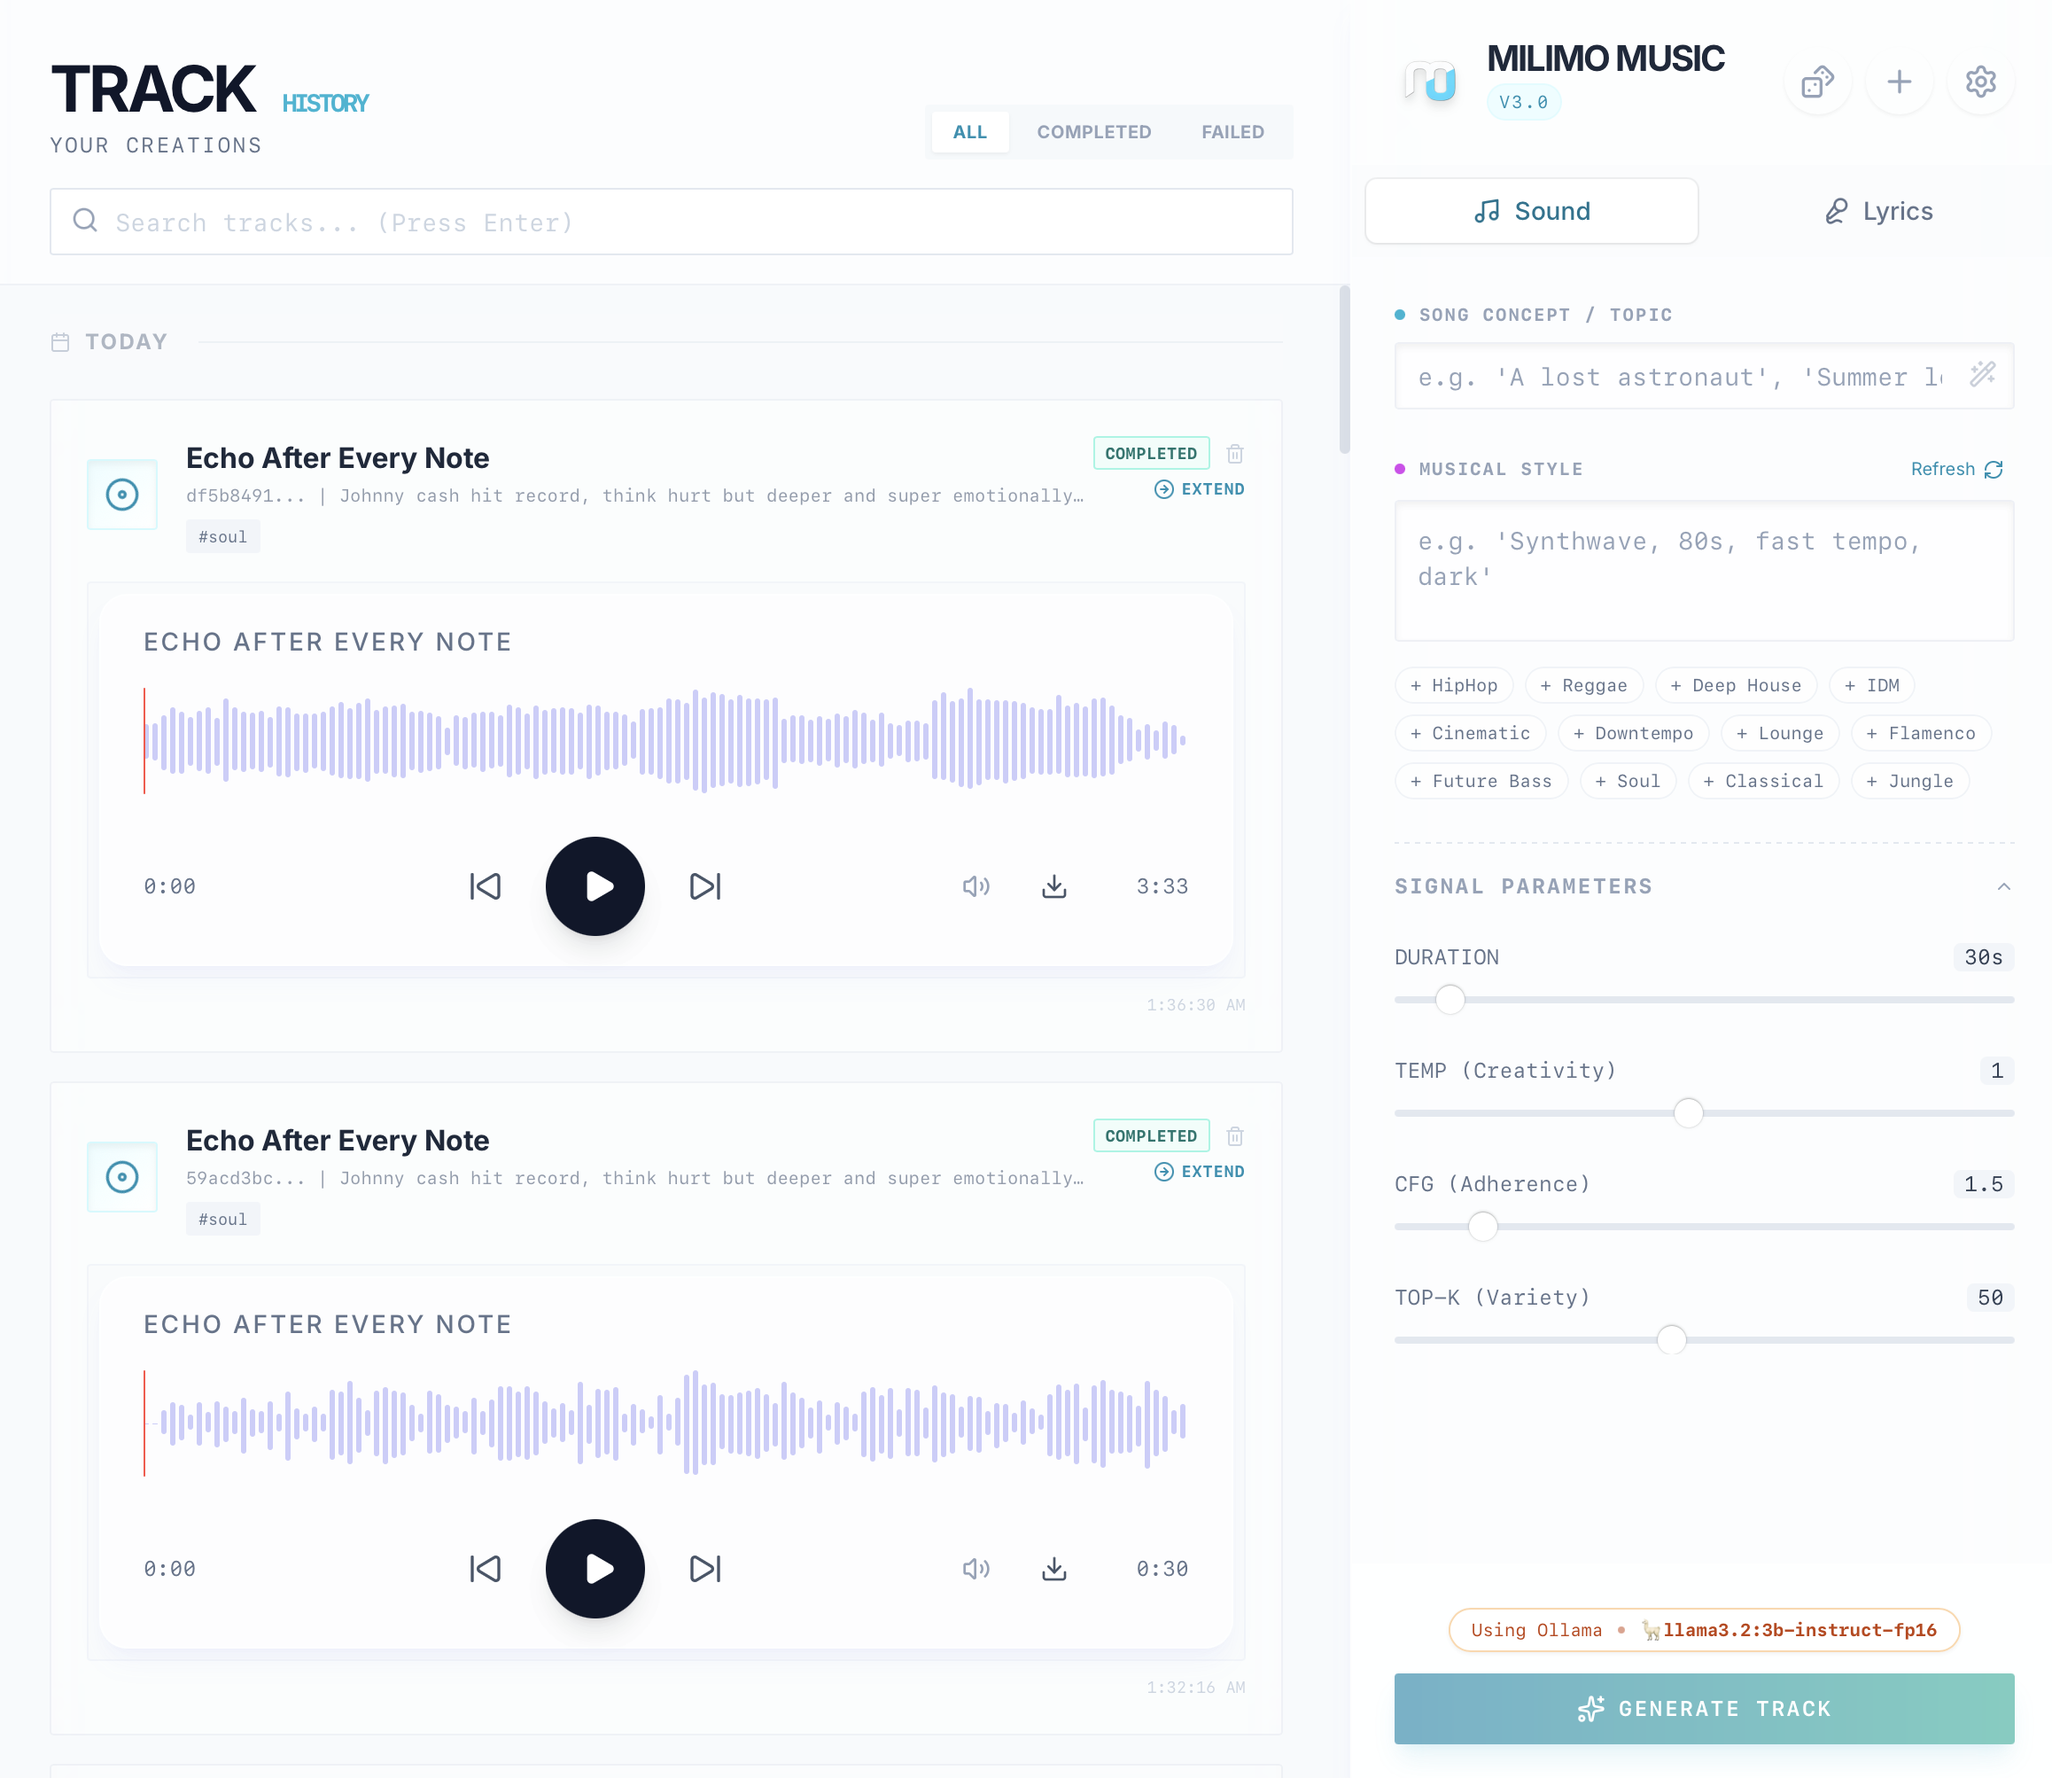
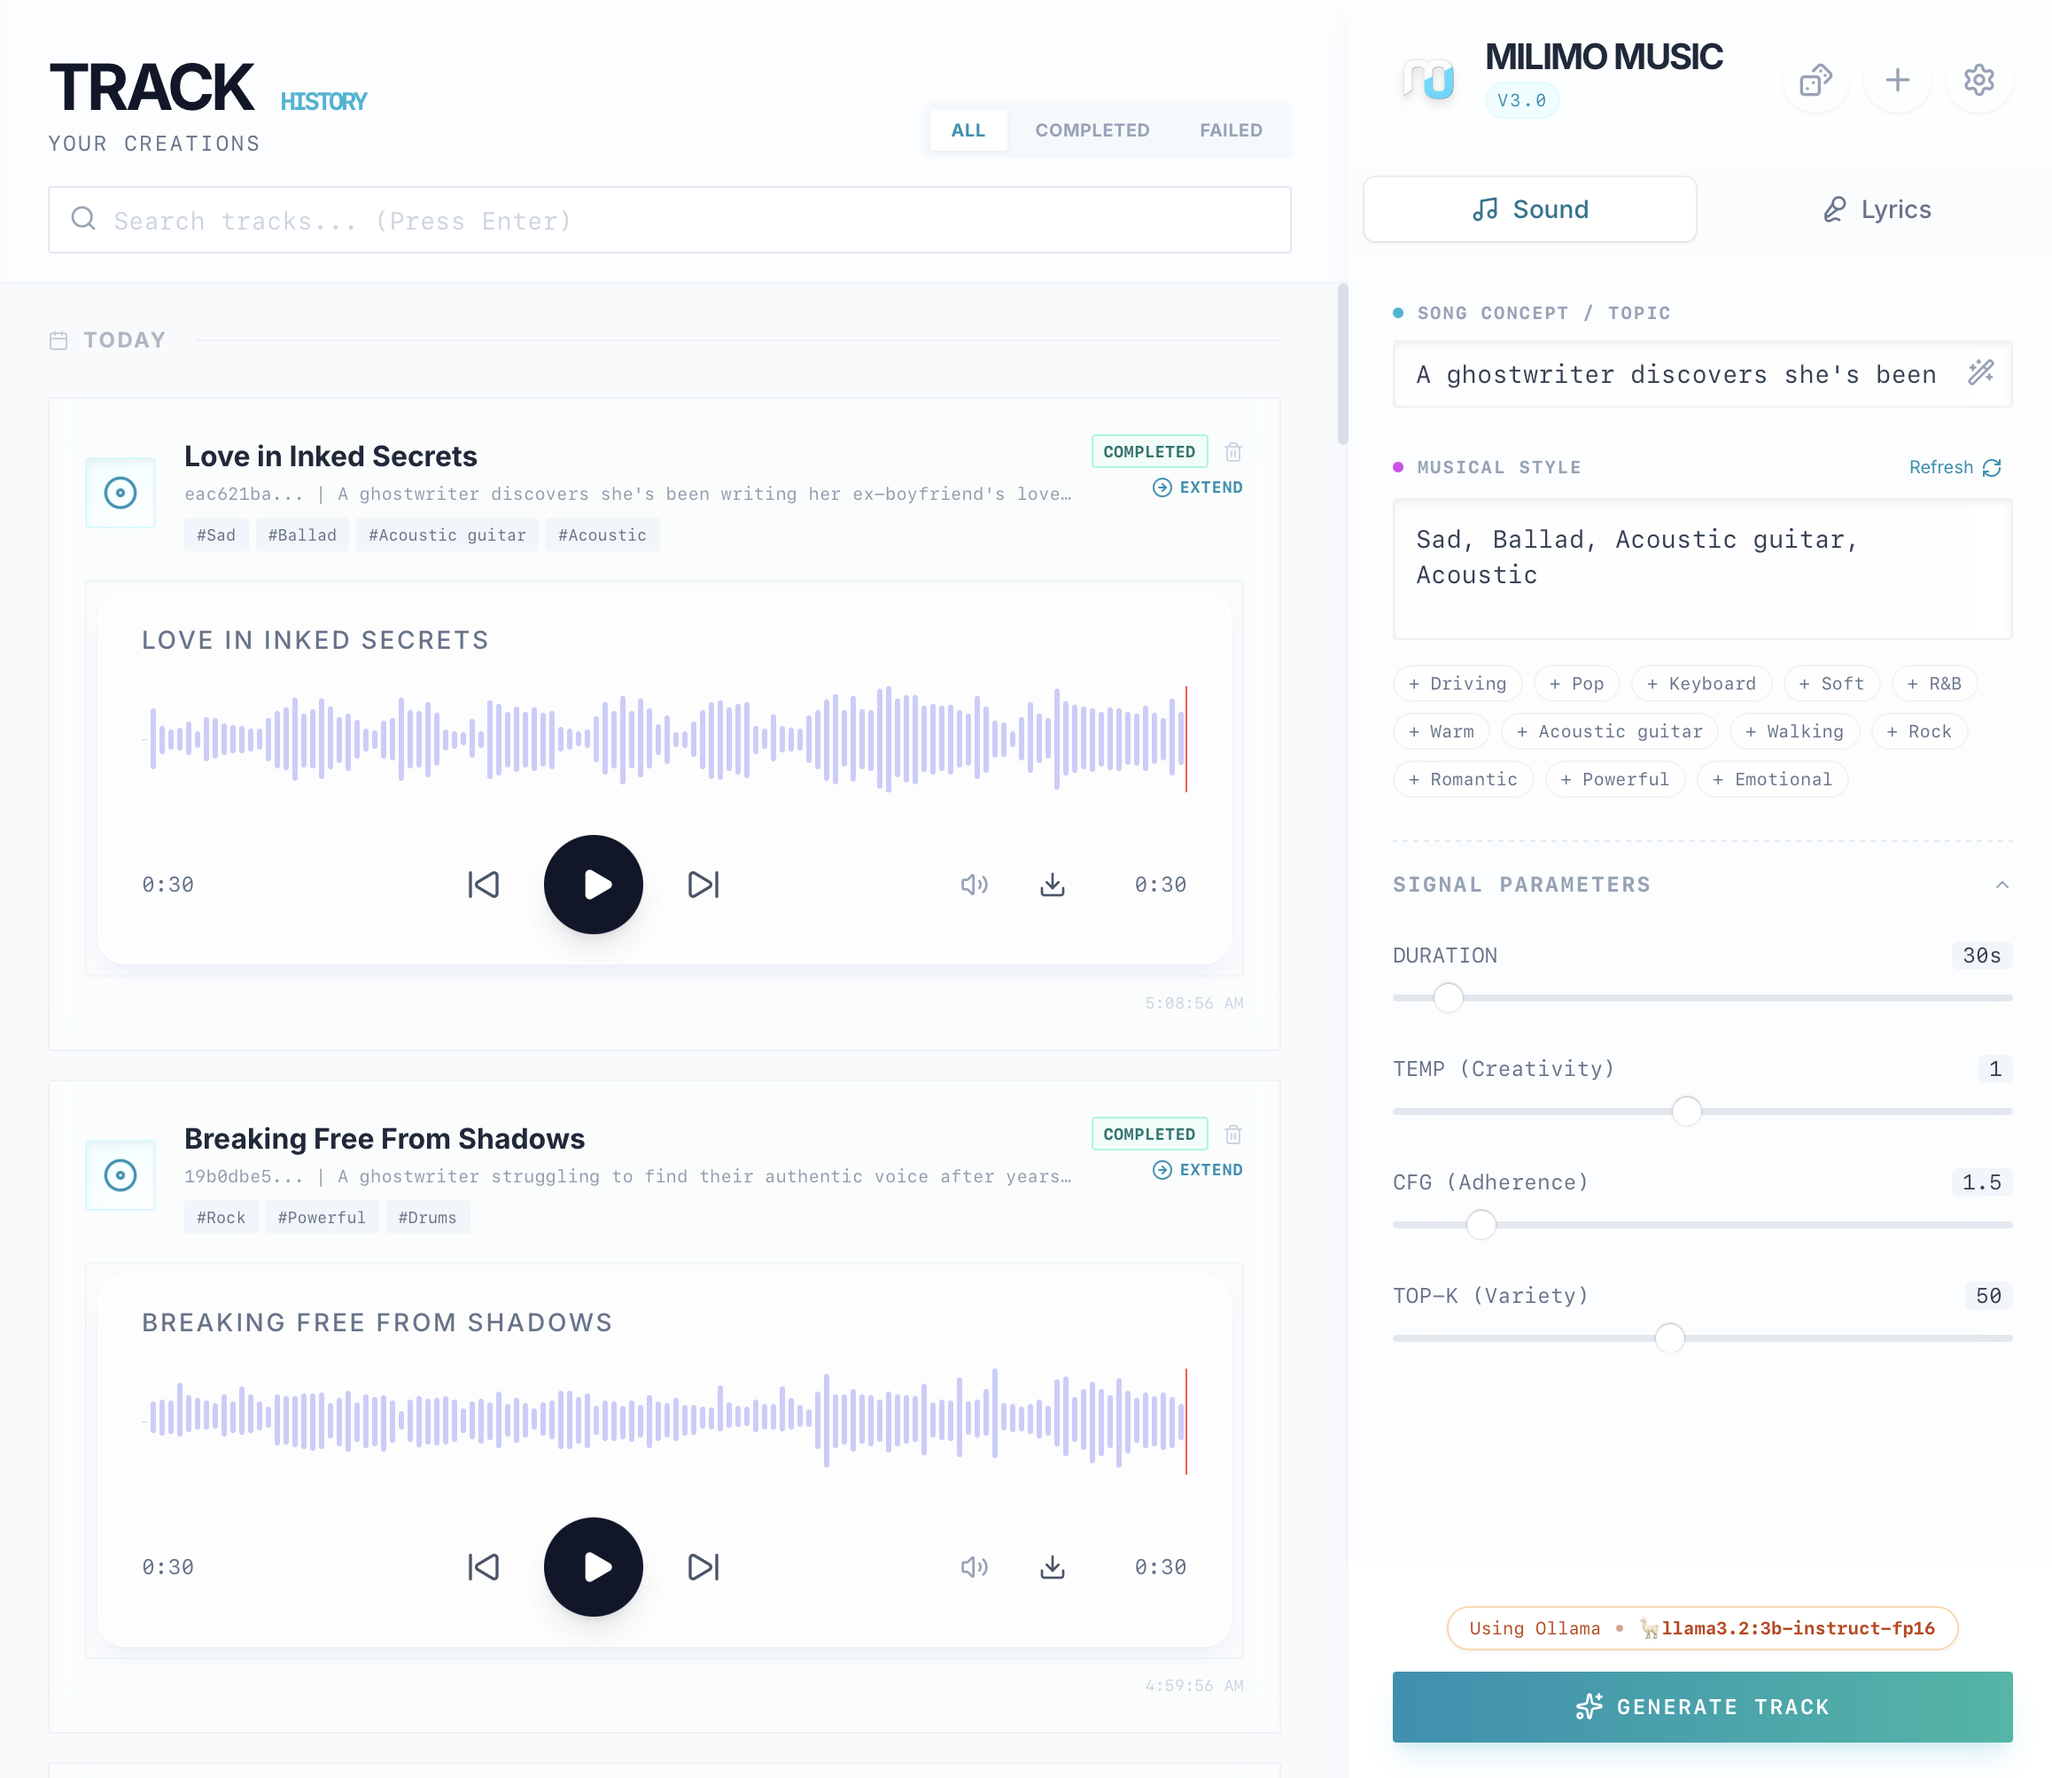
feat(music-style): enforce restricted HeartMuLa tags and fix UI issues

diff --git a/frontend/src/components/ComposerSidebar.tsx b/frontend/src/components/ComposerSidebar.tsx
@@ -209,27 +209,36 @@ export const ComposerSidebar: React.FC<ComposerSidebarProps> = ({
         }
     };
 
-    const [stylePills, setStylePills] = useState<string[]>(["Cinematic", "Lo-fi", "Synthwave", "Rock", "HipHop", "Orchestral", "Ambient", "Trap", "Techno"]);
-    const [isLoadingStyles, setIsLoadingStyles] = useState(false);
+    // Curated HeartMuLa Tags
+    const HEARTMULA_TAGS = [
+        "Warm", "Reflection", "Pop", "Cafe", "R&B", "Keyboard", "Regret", "Drum machine",
+        "Electric guitar", "Synthesizer", "Soft", "Energetic", "Electronic", "Self-discovery",
+        "Sad", "Ballad", "Longing", "Meditation", "Faith", "Acoustic", "Peaceful", "Wedding",
+        "Piano", "Strings", "Acoustic guitar", "Romantic", "Drums", "Emotional", "Walking",
+        "Hope", "Hopeful", "Powerful", "Epic", "Driving", "Rock"
+    ];
 
-    const refreshStyles = async () => {
-        setIsLoadingStyles(true);
-        try {
-            const styles = await api.getStylePresets(lyricsModel);
-            if (styles && styles.length > 0) {
-                setStylePills(styles);
-            }
-        } catch (e) {
-            console.error("Failed to load styles", e);
-        } finally {
-            setIsLoadingStyles(false);
-        }
+    const getRandomTags = (count: number) => {
+        const shuffled = [...HEARTMULA_TAGS].sort(() => 0.5 - Math.random());
+        return shuffled.slice(0, count);
     };
 
-    // Load initial styles
+    const [stylePills, setStylePills] = useState<string[]>([]);
+    const [isLoadingStyles, setIsLoadingStyles] = useState(false);
+
     useEffect(() => {
-        refreshStyles();
-    }, [lyricsModel]);
+        // Initial load
+        setStylePills(getRandomTags(12));
+    }, []);
+
+    const refreshStyles = () => {
+        setIsLoadingStyles(true);
+        // Simulate "loading" feel briefly
+        setTimeout(() => {
+            setStylePills(getRandomTags(12));
+            setIsLoadingStyles(false);
+        }, 300);
+    };
 
     const addStyle = (s: string) => {
         if (style.includes(s)) return;
@@ -437,7 +446,7 @@ export const ComposerSidebar: React.FC<ComposerSidebarProps> = ({
                             <textarea
                                 value={style}
                                 onChange={(e) => setStyle(e.target.value)}
-                                placeholder="e.g. 'Synthwave, 80s, fast tempo, dark'"
+                                placeholder="e.g. 'Pop, Electronic, Emotional, Rock'"
                                 className="w-full h-20 bg-white/60 rounded-sm border border-slate-200/60 p-3 focus:ring-1 focus:ring-cyan-500/50 outline-none resize-none text-sm placeholder:text-slate-400 transition-all shadow-inner font-mono text-slate-700"
                             />
                             {/* Style Pills */}

diff --git a/frontend/src/components/HistoryFeed.tsx b/frontend/src/components/HistoryFeed.tsx
@@ -236,7 +236,7 @@ export const HistoryFeed: React.FC<HistoryFeedProps> = ({
                                                             {/* Clickable Tags */}
                                                             {job.tags && (
                                                                 <div className="flex flex-wrap gap-1 mt-1.5">
-                                                                    {job.tags.split(',').slice(0, 3).map((tag, idx) => (
+                                                                    {job.tags.split(',').slice(0, 6).map((tag, idx) => (
                                                                         <button
                                                                             key={idx}
                                                                             onClick={(e) => {

diff --git a/backend/app/services/llm_service.py b/backend/app/services/llm_service.py
@@ -21,18 +21,12 @@ from .config_manager import ConfigManager
 
 logger = logging.getLogger(__name__)
 
-MUSIC_STYLES_LIBRARY = [
-    "Cinematic", "Lo-fi", "Synthwave", "Rock", "HipHop", "Orchestral", "Ambient", "Trap", "Techno",
-    "Jazz", "Blues", "Country", "Folk", "Reggae", "Soul", "R&B", "Funk", "Disco", "House", "Trance",
-    "Dubstep", "Drum & Bass", "Jungle", "Garage", "Grime", "Afrobeats", "K-Pop", "J-Pop", "Indie Pop",
-    "Dream Pop", "Shoegaze", "Post-Rock", "Math Rock", "Prog Rock", "Metal", "Punk", "Emo", "Grunge",
-    "Acoustic", "Piano", "Classical", "Opera", "Gregorian Chant", "Medieval", "Celtic", "Nordic Folk",
-    "Latin", "Salsa", "Bossa Nova", "Reggaeton", "Flamenco", "Tango", "Bollywood", "Indian Classical",
-    "Gospel", "Spiritual", "Meditative", "New Age", "Dark Ambient", "Drone", "Noise", "Industrial",
-    "Cyberpunk", "Vaporwave", "Chiptune", "Glitch", "IDM", "Complextro", "Electro Swing", "Nu-Disco",
-    "Future Bass", "Tropical House", "Deep House", "Tech House", "Acid House", "Psytrance", "Hardstyle",
-    "Breakbeat", "Trip-Hop", "Downtempo", "Chillout", "Lounge", "Elevator Music", "Muzak", "Experimental",
-    "Avant-Garde", "Musique Concrete", "Minimalism", "Baroque", "Renaissance", "Romantic", "Impressionist"
+VALID_HEARTMULA_TAGS = [
+    "Warm", "Reflection", "Pop", "Cafe", "R&B", "Keyboard", "Regret", "Drum machine",
+    "Electric guitar", "Synthesizer", "Soft", "Energetic", "Electronic", "Self-discovery",
+    "Sad", "Ballad", "Longing", "Meditation", "Faith", "Acoustic", "Peaceful", "Wedding",
+    "Piano", "Strings", "Acoustic guitar", "Romantic", "Drums", "Emotional", "Walking",
+    "Hope", "Hopeful", "Powerful", "Epic", "Driving", "Rock"
 ]
 
 class LLMProvider(ABC):
@@ -378,37 +372,39 @@ class LLMService:
         provider = LLMService._get_provider()
         model = model or LLMService._get_active_model()
 
+        valid_tags_str = ", ".join(VALID_HEARTMULA_TAGS)
         prompt = (
             f"Act as a professional music producer. Transform this simple user concept into a detailed musical direction.\n"
             f"USER CONCEPT: '{concept}'\n\n"
             "INSTRUCTIONS:\n"
             "1. Create a 'topic' description that is evocative and detailed (1 sentence).\n"
-            "2. Select 3-5 'tags' that describe the genre, mood, instruments, and tempo (comma separated).\n"
+            f"2. Select 3-5 'tags' ONLY from this list: [{valid_tags_str}]. Do NOT use any other tags.\n"
             "3. Return ONLY a raw JSON object with keys 'topic' and 'tags'. Do NOT wrap in markdown code blocks.\n\n"
             "Example Output:\n"
-            '{"topic": "A melancholic acoustic ballad about lost love in autumn.", "tags": "Acoustic, Folk, Sad, Guitar, Slow"}'
+            '{"topic": "A melancholic acoustic ballad about lost love in autumn.", "tags": "Acoustic, Sad, Soft"}'
         )
 
         try:
             return provider.generate_json(prompt, model)
         except Exception as e:
             logger.warning(f"Enhance prompt failed: {e}")
-            return {"topic": concept, "tags": "Pop, Experimental"}
+            return {"topic": concept, "tags": "Pop, Soft"}
 
     @staticmethod
     def generate_inspiration(model: Optional[str] = None) -> dict:
         provider = LLMService._get_provider()
         model = model or LLMService._get_active_model()
 
+        valid_tags_str = ", ".join(VALID_HEARTMULA_TAGS)
         prompt = (
             "Act as a professional music producer brainstorming new hit songs.\n"
             "INSTRUCTIONS:\n"
             "1. Invent a UNIQUE, creative song concept/topic (1 vivid sentence).\n"
-            "2. Select a matching musical style (3-5 tags like genre, mood, instruments).\n"
+            f"2. Select a matching musical style using 3-5 tags ONLY from this list: [{valid_tags_str}].\n"
             "3. Return ONLY a raw JSON object with keys 'topic' and 'tags'.\n\n"
             "Examples:\n"
-            '{"topic": "A lonely astronaut drifting through the cosmos.", "tags": "Ambient, Space, Ethereal"}\n'
-            '{"topic": "A cyberpunk detective chasing a suspect in rain.", "tags": "Synthwave, Dark, Retro"}'
+            '{"topic": "A lonely astronaut drifting through the cosmos.", "tags": "Reflection, Space, Soft"}\n'
+            '{"topic": "A cyberpunk detective chasing a suspect in rain.", "tags": "Electronic, Dark, Driving"}'
         )
 
         try:
@@ -416,14 +412,14 @@ class LLMService:
             return provider.generate_json(prompt, model, options={"temperature": 0.9})
         except Exception as e:
             logger.warning(f"Inspiration generation failed: {e}")
-            return {"topic": "A mysterious journey through time", "tags": "Orchestral, Epic, Cinematic"}
+            return {"topic": "A mysterious journey through time", "tags": "Strings, Epic, Cinematic"}
 
     @staticmethod
     def generate_styles_list(model: Optional[str] = None) -> List[str]:
         try:
-            return random.sample(MUSIC_STYLES_LIBRARY, 12)
+            return random.sample(VALID_HEARTMULA_TAGS, 12)
         except Exception:
-            return MUSIC_STYLES_LIBRARY[:12]
+            return VALID_HEARTMULA_TAGS[:12]
 
     @staticmethod
     def update_config(provider_name: str, config_data: Dict[str, Any]):
